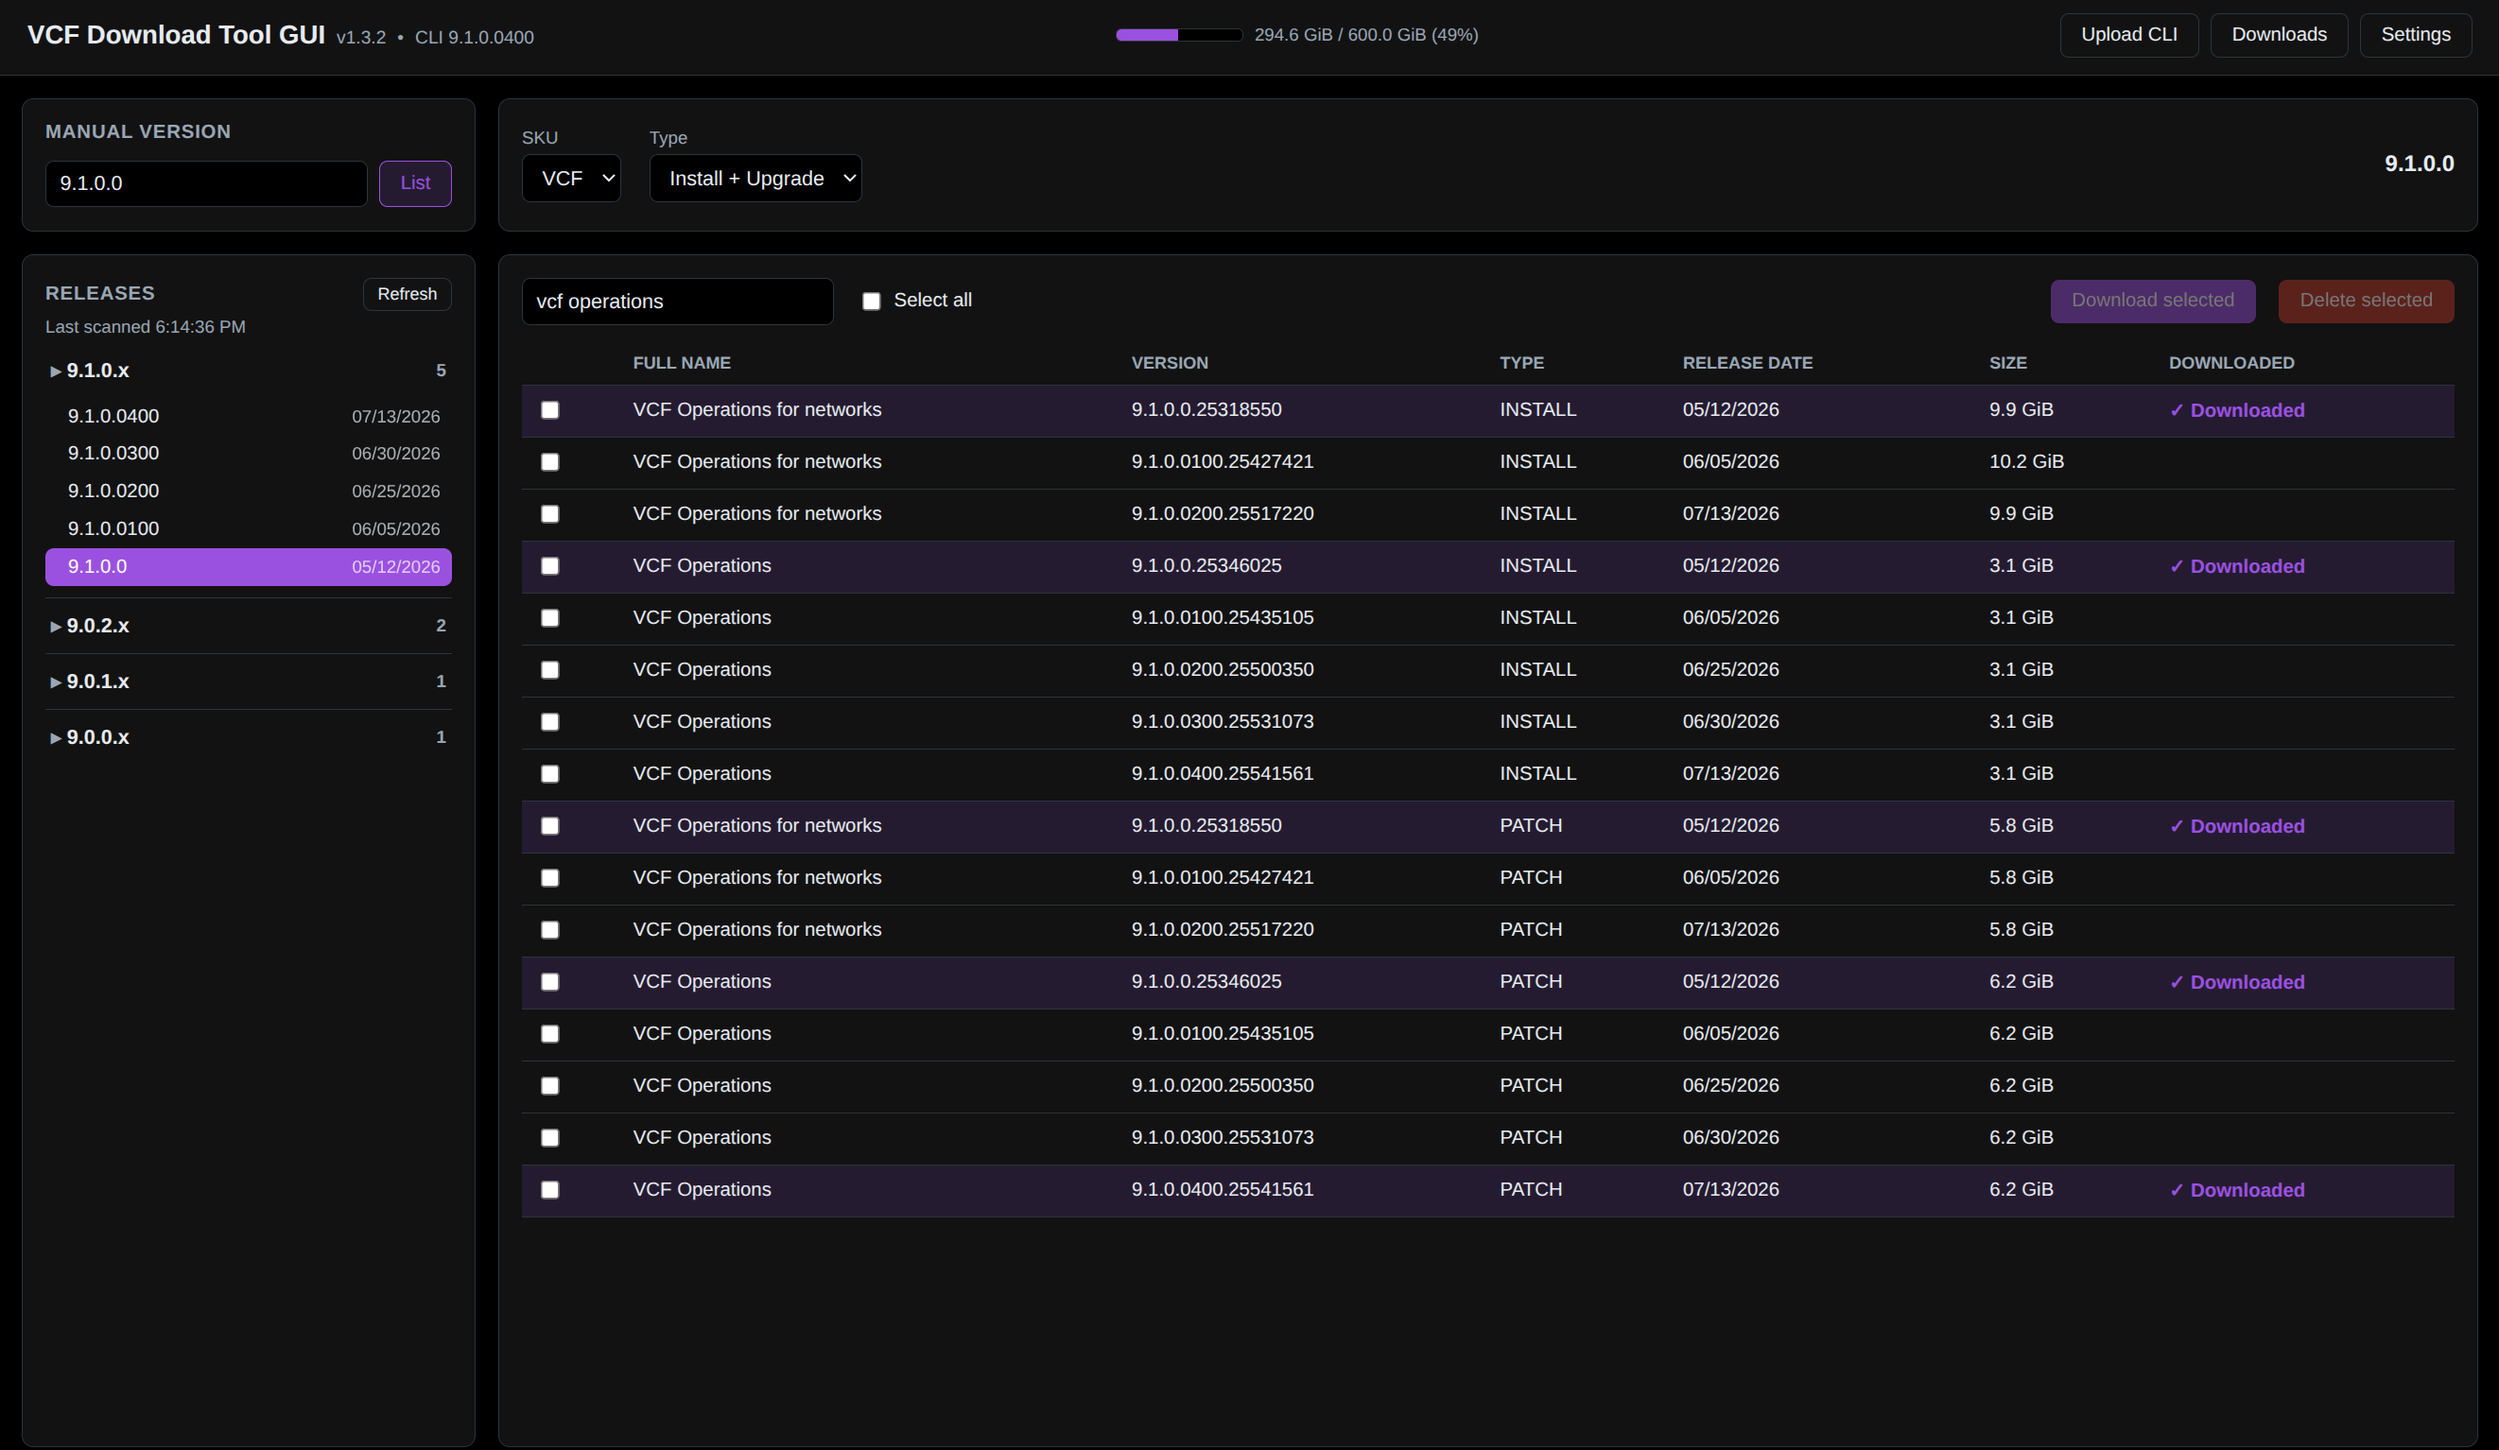
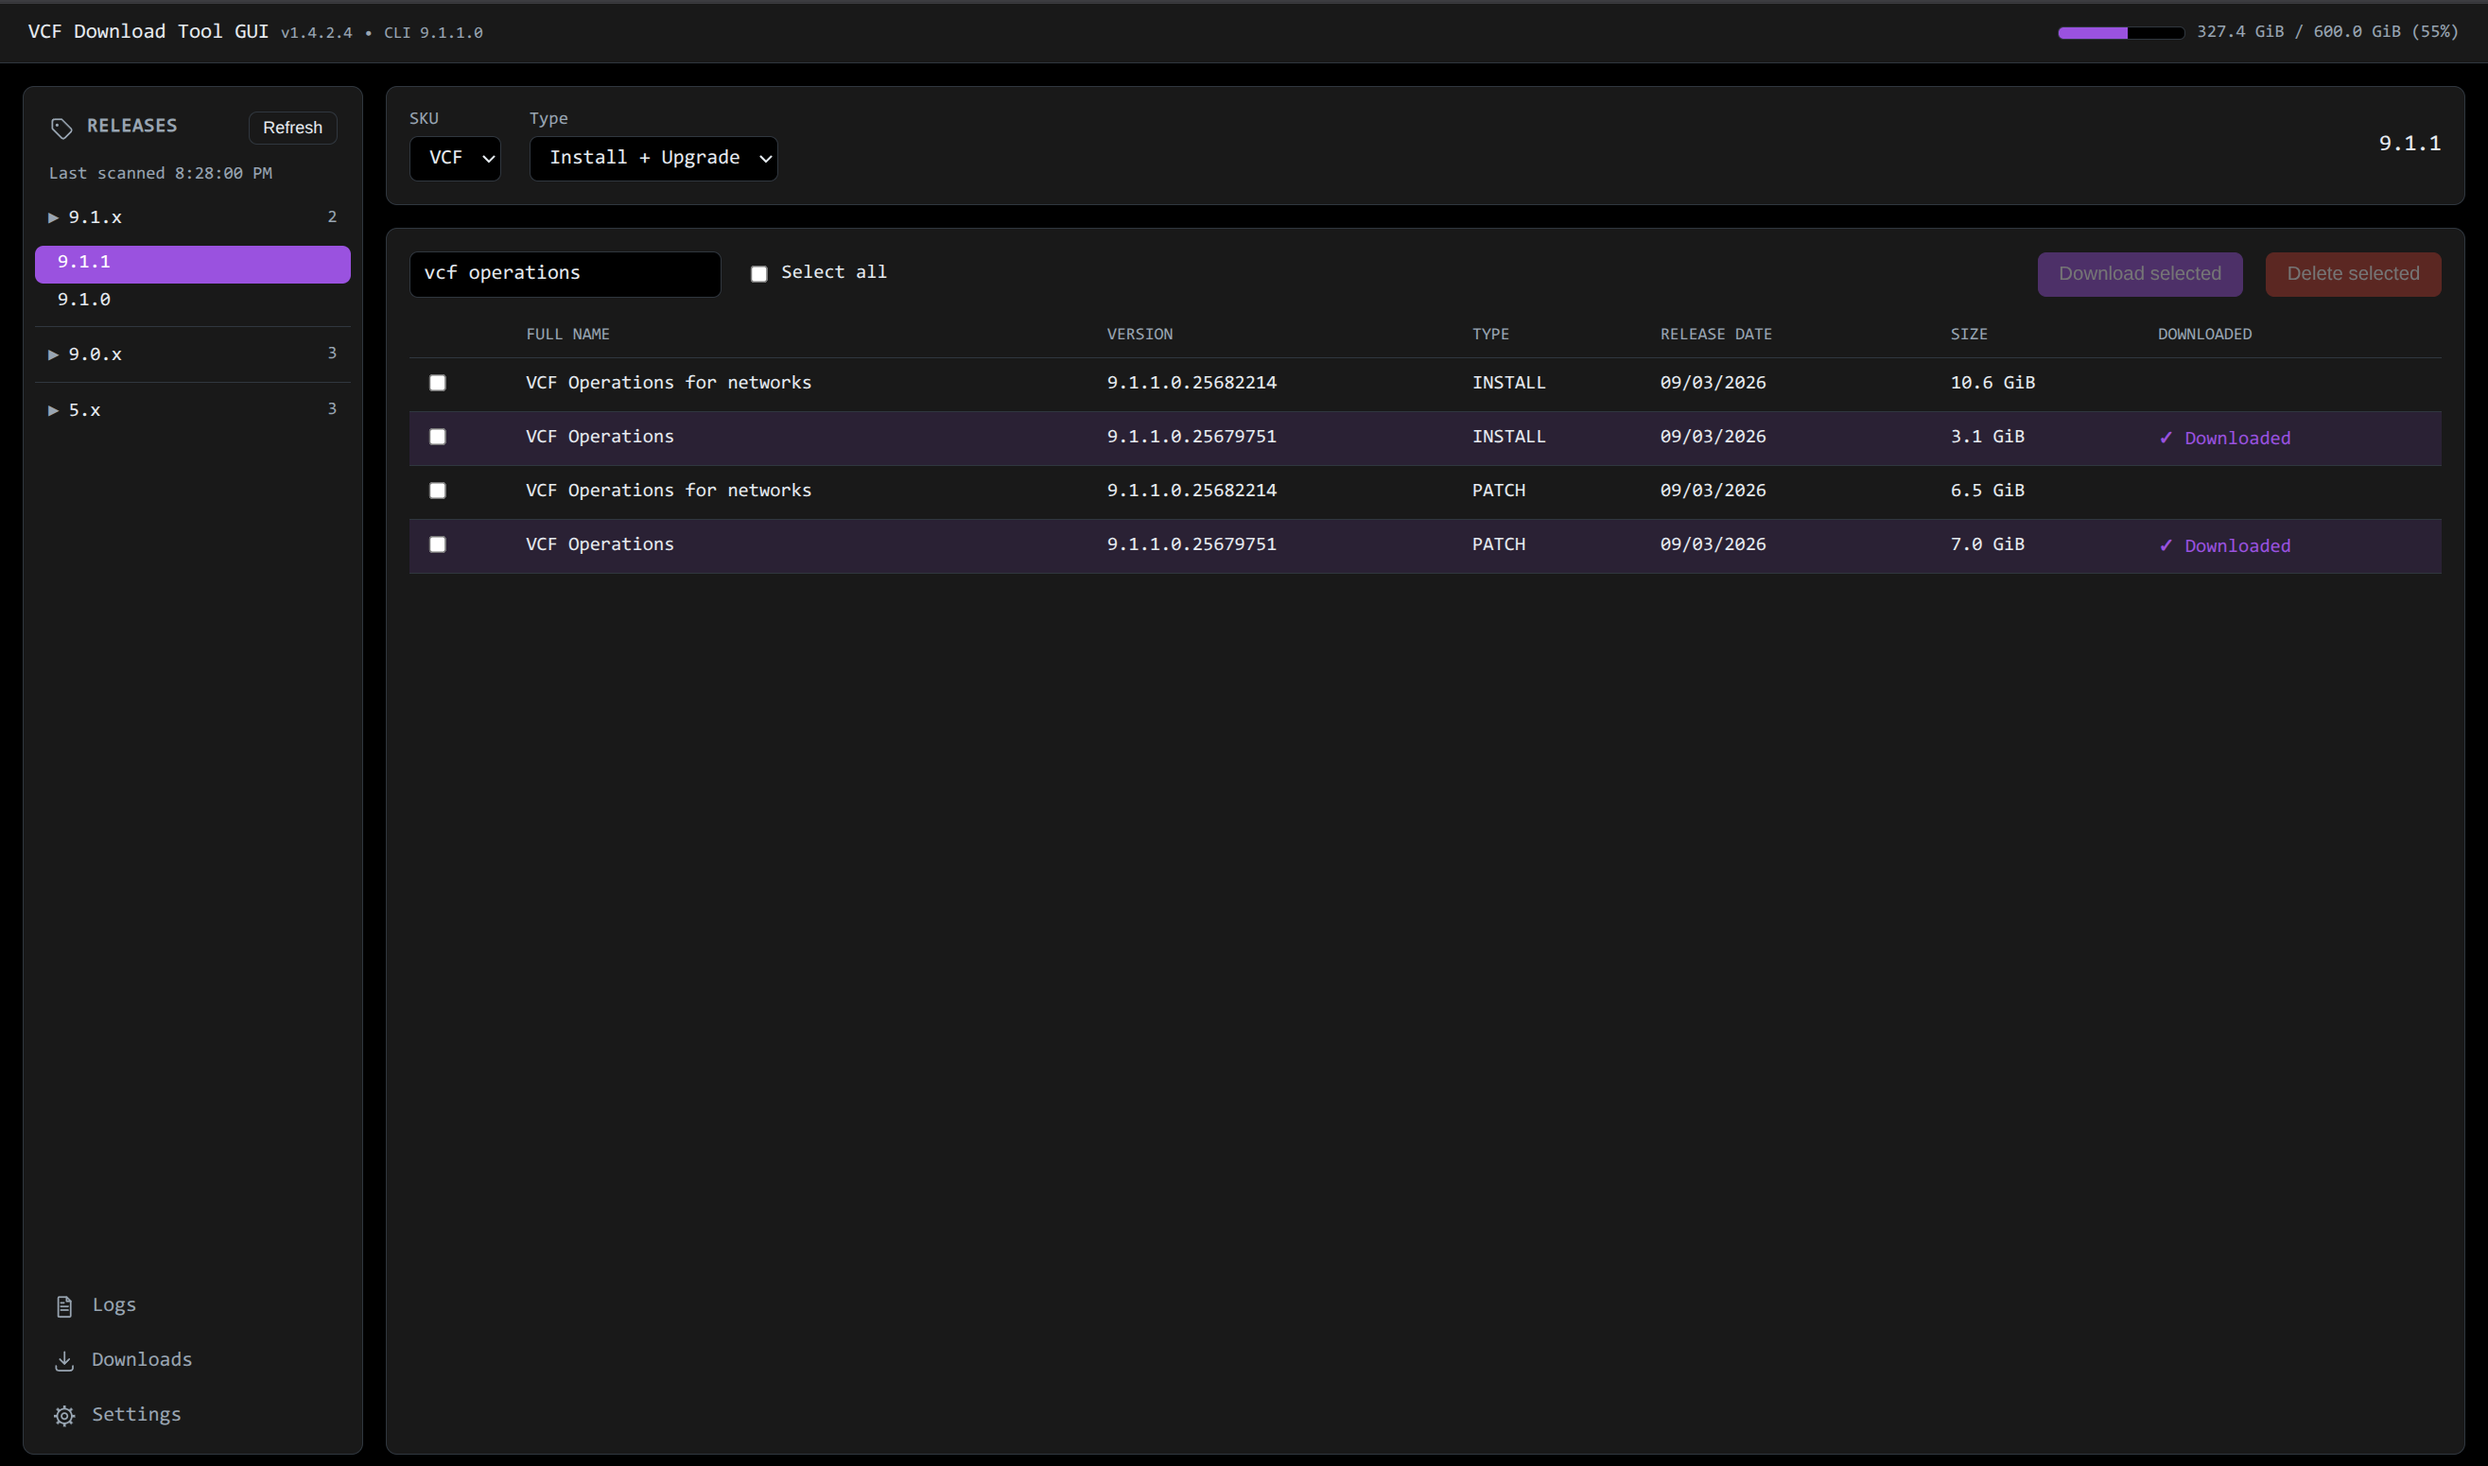
docs: refresh screenshots, trim CLI notes, note log viewer
New overview/settings/downloads screenshots (settings has the depot ID
redacted); drop the removed Upload-CLI shot; add "Log visibility" to the
feature list.

Claude-Session: https://claude.ai/code/session_01QQgFToVyPELHKAPktM5kXr

diff --git a/README.md b/README.md
@@ -9,22 +9,7 @@ The following versions of the CLI were tested and work
 
 - 9.1.0.0100
 - 9.1.0.0400
-- 9.1.1.0 — needs more JVM heap, and changed release discovery (see below)
-
-**Heap:** the CLI ships its own JRE and sets no `-Xmx`, so the JVM caps its
-heap at a fraction of the container's `mem_limit`. Older CLIs cope with the
-default; 9.1.1.0 runs out of heap partway through a download
-(`java.lang.OutOfMemoryError: Java heap space`) unless given more. The
-compose file sets `CLI_JAVA_TOOL_OPTIONS=-Xmx768m` for this. If a newer CLI
-still OOMs, raise that value and `mem_limit` together.
-
-**Release discovery / listing:** 9.1.1.0 changed `binaries list` — a
-`--vcf-version` range no longer enumerates past releases, and it defaults to
-showing only the newest build of each component. On CLI ≥ 9.1.1 the app uses
-the new `releases list` command for the release tree, and adds
-`--latest=false` when listing a release's binaries so every patch build
-(`9.1.0.0`, `9.1.0.0100`, …) shows again. On older CLIs both behave as
-before, unchanged.
+- 9.1.1.0
 
 # Features
 
@@ -41,12 +26,11 @@ before, unchanged.
 - Searchable downloads list
 - Filter by patch/upgrade files and install files
 - Order by release date, size and downloaded columns
+- Log visibility
 
 ## Pictures
 
 ![Overview](images/overview.png)
-
-![Upload CLI](images/cli-upload.png)
 
 ![Settings](images/settings.png)
 
